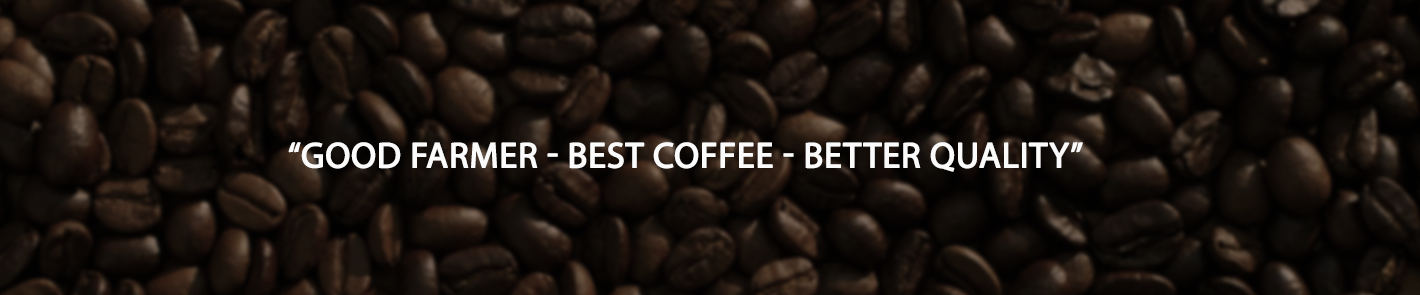
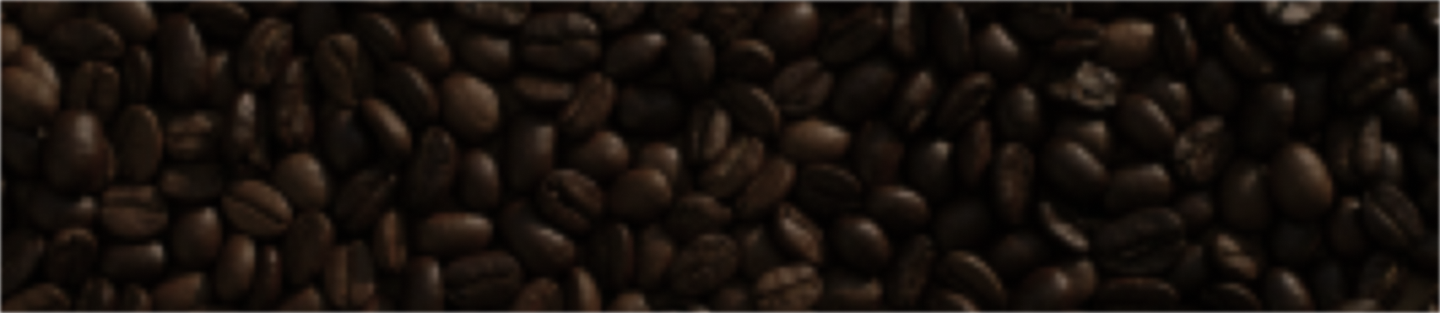
new section

diff --git a/index.html b/index.html
@@ -289,16 +289,16 @@
             </div>
           </div> -->
 
-          <div class="scratch scratch_bottom">
-            <img src="assets/images/decorations/scratch_01.png" alt="image_not_found">
-          </div>
+          <!-- <div class="scratch scratch_bottom">
+            <img src="sassets/images/decorations/scratch_01.png" alt="image_not_found">
+          </div> -->
         </section>
         <!-- banner_section - end
         ================================================== -->
 
         <!-- about_section - start
         ================================================== -->
-        <section id="tentang_usaha" class="sec_ptb_120">
+        <section id="tentang_usaha" class="blog_section sec_ptb_120">
           <div class="container">
             <div class="row align-items-center justify-content-lg-between">
               <div class="col-lg-6 col-md-6 order-last">
@@ -378,83 +378,26 @@
               </div>
             </div>
           </div>
-      
+         
         </section>
 
-        <div class="scratch scratch_bottom">
-          <img src="assets/images/backgrounds/image_14.png" alt="image_not_found">
-        </div>
-        <!-- about_section - end
-        ================================================== -->
 
-        <!-- feature_primary_section - start
-        ================================================== -->
-        <!-- <section class="feature_primary_section2 deco_wrap" style="background-image: url(assets/images/backgrounds/bg_07.png);">
+        <section class="bg" style="background-image: url(assets/images/backgrounds/image_14.png); ">
           <div class="container">
-            <div class="row">
-              <div class="col-lg-3 col-md-4 col-sm-6">
-                <div class="feature_primary wow fadeInUp" data-wow-delay=".1s">
-                  <div class="item_icon">
-                    <span class="item_serial">1</span>
-                    <img src="assets/images/feature/icon_01.png" alt="icon_not_found">
-                  </div>
-                  <h3 class="item_title text-uppercase">awesomae aroma</h3>
-                  <p class="mb-0">
-                    The coffee is brewed by first roasting the green coffee beans 
-                  </p>
-                </div>
-              </div>
-
-              <div class="col-lg-3 col-md-4 col-sm-6">
-                <div class="feature_primary wow fadeInUp" data-wow-delay=".2s">
-                  <div class="item_icon">
-                    <span class="item_serial">2</span>
-                    <img src="assets/images/feature/icon_02.png" alt="icon_not_found">
-                  </div>
-                  <h3 class="item_title text-uppercase">high quality</h3>
-                  <p class="mb-0">
-                    The coffee is brewed by first roasting the green coffee beans 
-                  </p>
-                </div>
-              </div>
-
-              <div class="col-lg-3 col-md-4 col-sm-6">
-                <div class="feature_primary wow fadeInUp" data-wow-delay=".3s">
-                  <div class="item_icon">
-                    <span class="item_serial">3</span>
-                    <img src="assets/images/feature/icon_03.png" alt="icon_not_found">
-                  </div>
-                  <h3 class="item_title text-uppercase">pure grades</h3>
-                  <p class="mb-0">
-                    The coffee is brewed by first roasting the green coffee beans 
-                  </p>
-                </div>
-              </div>
-
-              <div class="col-lg-3 col-md-4 col-sm-6">
-                <div class="feature_primary wow fadeInUp" data-wow-delay=".4s">
-                  <div class="item_icon">
-                    <span class="item_serial">4</span>
-                    <img src="assets/images/feature/icon_04.png" alt="icon_not_found">
-                  </div>
-                  <h3 class="item_title text-uppercase">proper roasting</h3>
-                  <p class="mb-0">
-                    The coffee is brewed by first roasting the green coffee beans 
-                  </p>
-                </div>
+            <div class="row justify-content-center align-items-center mx-auto">
+              <div class="col">
+               <h2 class="text-white p-5" style="margin-top:100px ;">"GOOD FARMER - BEST COFFEE - BETTER QUALITY"</h2>
               </div>
             </div>
           </div>
+        </section>
+       
 
-          <div class="scratch scratch_bottom">
-            <img src="assets/images/decorations/scratch_01.png" alt="image_not_found">
-          </div>
-        </section> -->
-        <!-- feature_primary_section - end
-        ================================================== -->
-
-        <!-- <div class="element-item w-100">
-          <div class="shop_offer_banner text-white" style="background-image: url(assets/images/backgrounds/image_14.png);">
+       
+       
+<!-- 
+        <div class="element-item w-100">
+          <div class="shop_offer_banner text-white" style="background-image: url(assets/images/backgrounds/bg_07.png); background-repeat: no-repeat; background-position: center; background-size: cover;">
             <div class="item_content">
               <h4 class="item_title text-white text-center text-uppercase">"GOOD FARMER - BEST COFFEE - BETTER QUALITY"</h4>
             </div>
@@ -718,7 +661,7 @@
                       <li><a href="#"><i class="fab fa-linkedin-in"></i></a></li>
                     </ul>
                   </div> -->
-                  <a class="item_image" href="shop_details.html">
+                  <a class="item_image" href="#">
                     <img src="assets/images/shop/image 13.png" alt="image_not_found">
                   </a>
                   <div class="item_content">
@@ -1098,19 +1041,19 @@
           <!-- <div class="deco_big_text text-uppercase text-center wow fadeInUp" data-wow-delay=".1s">
             Cafenod
           </div> -->
-
+<!-- 
           <div class="scratch scratch_top">
             <img src="assets/images/decorations/scratch_02.png" alt="image_not_found">
-          </div>
-          <div class="scratch scratch_bottom">
+          </div> -->
+          <!-- <div class="scratch scratch_bottom">
             <img src="assets/images/decorations/scratch_01.png" alt="image_not_found">
-          </div>
+          </div> -->
         </section>
         <!-- recipe_menu_section - end
         ================================================== -->
 
        
-
+          
        
 
         <!-- blog_section - start
@@ -1355,8 +1298,8 @@
                 <div class="footer_widget footer_recent_post wow fadeInUp" data-wow-delay=".4s">
                   <h3 class="footer_widget_title text-uppercase">POSTINGAN INSTAGRAM</h3>
 
-                  <div class="recent_post">
-                    <a class="item_image" href="#">
+                  <div class="recent_post" id="recent_post">
+                    <!-- <a class="item_image" href="#">
                       <img src="assets/images/recent_post/image 8.png" alt="image_not_found">
                     </a>
 
@@ -1366,7 +1309,7 @@
 
                     <a class="item_image" href="#">
                       <img src="assets/images/recent_post/image 10.png" alt="image_not_found">
-                    </a>
+                    </a> -->
                     <!-- <div class="item_content">
                       <h4 class="item_title">
                         <a href="blog_details.html">Best Smell of Americano Coffee Trins</a>
@@ -1375,7 +1318,7 @@
                     </div> -->
                   </div>
 
-                  <div class="recent_post">
+                  <!-- <div class="recent_post">
                     <a class="item_image" href="#">
                       <img src="assets/images/recent_post/image 11.png" alt="image_not_found">
                     </a>
@@ -1387,13 +1330,8 @@
                     <a class="item_image" href="#">
                       <img src="assets/images/recent_post/image 13.png" alt="image_not_found">
                     </a>
-                    <!-- <div class="item_content">
-                      <h4 class="item_title">
-                        <a href="blog_details.html">Best Smell of Americano Coffee Trins</a>
-                      </h4>
-                      <span class="post_date text-uppercase">December 30 - 2021</span>
-                    </div> -->
-                  </div>
+                    
+                  </div> -->
                 </div>
               </div>
             </div>
@@ -1418,16 +1356,21 @@
     </div>
     <!-- body_wrap - end -->
 
-    <script>
-      //confirm("Halaman ini dalam proses perbaikan");
-      var r = confirm("Halaman ini dalam proses perbaikan!");
-        if (r == true) { 
-          x = "Tombol OK telah ditekan";  
-        }  
-        else {
-          x = "Tombol Cancel telah ditekan";  
-        }
-    </script>
+   <!-- Ambil data feed dari instragam -->
+   <script src="https://cdn.jsdelivr.net/gh/stevenschobert/instafeed.js@2.0.0rc1/src/instafeed.min.js"></script>
+   <script type="text/javascript">
+   var userFeed = new Instafeed({
+     get: 'akupa.id',
+     target: "recent_post",
+       resolution: 'low_resolution',
+       limit:2,
[1 lines of base64/hex data omitted]
+   });
+   userFeed.run();
+   </script>
+   <!-- end -->
+
+
 
     <!-- fraimwork - jquery include -->
     <script src="assets/js/jquery.min.js"></script>

diff --git a/assets/css/style.css b/assets/css/style.css
@@ -87,6 +87,15 @@ textarea:active {
   outline: none;
 }
 
+.bg {
+  color: #ffffff;
+  text-align: center;
+  height: 313px;
+  width: 100%;
+  background-position: center;
+  background-repeat: no-repeat;
+  background-size: cover;}
+
 img:not([draggable]),
 embed,
 object,
